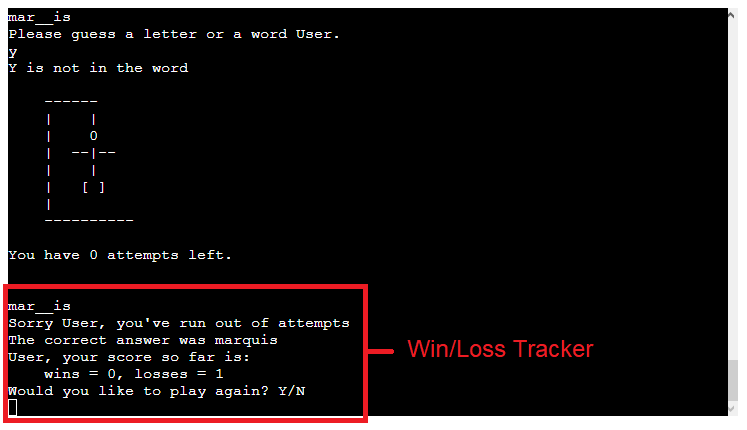
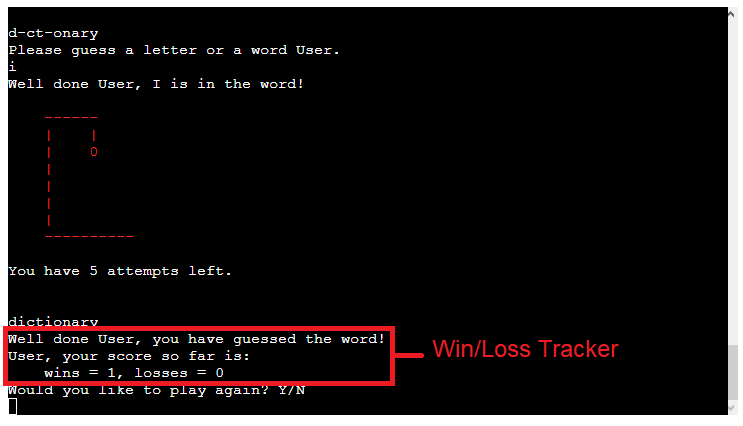
Add testing results to ReadME

Changed region(s): [[0.0, 0.0, 1.0, 1.0], [0.0, 0.0, 0.4643, 0.2136], [0.0619, 0.2746, 0.1548, 0.5188]]

diff --git a/README.md b/README.md
@@ -57,10 +57,12 @@ The user is prompted to choose a difficulty, with either easy or hard as options
 ## Dynamic Attempts
 Once the user selects a difficulty, the program the sets the number of attempts the user gets for guessing the answers. A value equal to one quater of the hidden word is added to the base attempt of six. This attempt calculation guarentees a minimum amount of attempts for the hangman images to work with, while also maintaining dynamic difficulty. The attempts are displayed to the user throughout the game so they do not need to scroll in order to see their remaining attempts.
 
+![Hangman image console](assets/readme_images/console_hangman_game_b.png)
+
 ## Word Prompt
 The word to guess that the difficulty selector created is used to build a prompt to help the user guess. The prompt builder creates a series of underscore lines ("_") equal to the length of the word to guess
 
-![Hangman image console](assets/readme_images/console_hangman_game.png)
+![Hangman image console](assets/readme_images/console_hangman_game_a.png)
 
 ## Dynamic Hangman Image
 The hangman image uses the dynamic attempts calculation to display the hangman image according to the number of attempts the user has left. For the final six attempts, the images of the hangman stages cycle through as the user runs out of attempts. Prior to this, text is displayed providing context for the user.
@@ -93,13 +95,43 @@ The user is provided with a running tally of their wins and losses during the ru
 
 Hang that man! was tested in both Gitpod during development and on the Heroku Terminal following deployemnt.
 Expected results from user inputs were checked and corrected when errors occured as follows:
-* Name input function stored user's entry as desired and printed error message when user input was not alphabetic.
-* Difficulty selector pulled the guess word from the correct list when user selected a difficulty.
-* Input error for the difficulty selector correctly prompts the user with the proper error message.
-* The dynamic hangman image responds correctly to the number of attempts left for the user.
-* The user's input is correctly stored and checked for repeats. Repeats are flagged to the user.
-* Both letter and word input word as expected.
-* User wins and losses are stored and presented correctly to the user.
+
+1. **Program Start**
+    - Confirmed program started without crashes.
+    - Introduction displayed without issue.
+    - Username input prompt runs on startup as expected.
+2. **Username Input**
+    - Confirmed valid username input stored in variable.
+    - Erroneous inputs call error message and input prompt agaas expected.
+3. **Rules Function**
+    - Confirmed rules function ran following username input.
+    - Confirmed valid rules input calls rules display for user.
+    - Confirmed valid play input skips rules display to difficulty selection.
+    - Erroneous inputs call error message and input prompt as expected.
+4. **Difficulty Selection**
+    - Confirmed that valid input pulls random word from correct word list.
+    - Erroneous input calls error message and input prompt as expected.
+5. **Dynamic Attempts**
+    - Confirmed attempts calculator runs as expected.
+    - Minimum attempts maintained during calculation.
+6. **Responsive Hangman Picture**
+    - Confirmed hangman image starts at correct number of remaining attempts.
+    - Confirmed text and image are both correctly coloured at all stages.
+7. **Guessed Letters Tracker**
+    - Confirmed user inputs stored in appropriate lists.
+    - Repeat user inputs correctly call error message and input prompt.
+8. **Win and Loss Parameters**
+    - Confirmed win state correctly activates on all correct letters guessed.
+    - Confirmed win state correctly activates on user correctly guessing the word.
+    - Confirmed loss state correctly activates when user runs out of attempts.
+9. **Win and Loss Tracker**
+    - Confirmed win and loss score update correctly following the appropriate win or loss state.
+    - Confirmed "Play Again" prompt runs after score is updated.
+10. **Play Again function**
+    - Confirmed game repeats at difficulty selection when user inputs "Y".
+    - Confirmed game returns to start of the program when user selects otherwise.
+
+[Back to top](<#contents>)
 
 All python files pass through validation using the [Pep8](http://pep8online.com) online software. All files pass through with no errors present.
 
@@ -130,6 +162,8 @@ During development the following bugs were identified and corrected:
 * Difficulty selection would store an invalid entry and would not be replaced by the repeat entry. Moving the return function corrected the error.
 * Console size was too wide during development. Adjusted code to fit within parameters.
 * User score function would reset for each run of main loop. Changed score storage to list fixed issue.
+* Name input continued to store erroneous input, modified return code and function structure to fix.
+* Program stopped unexpectedly after second playthrough. Removed break statement from main function to fix issue.
 
 [Back to top](<#contents>)
 
